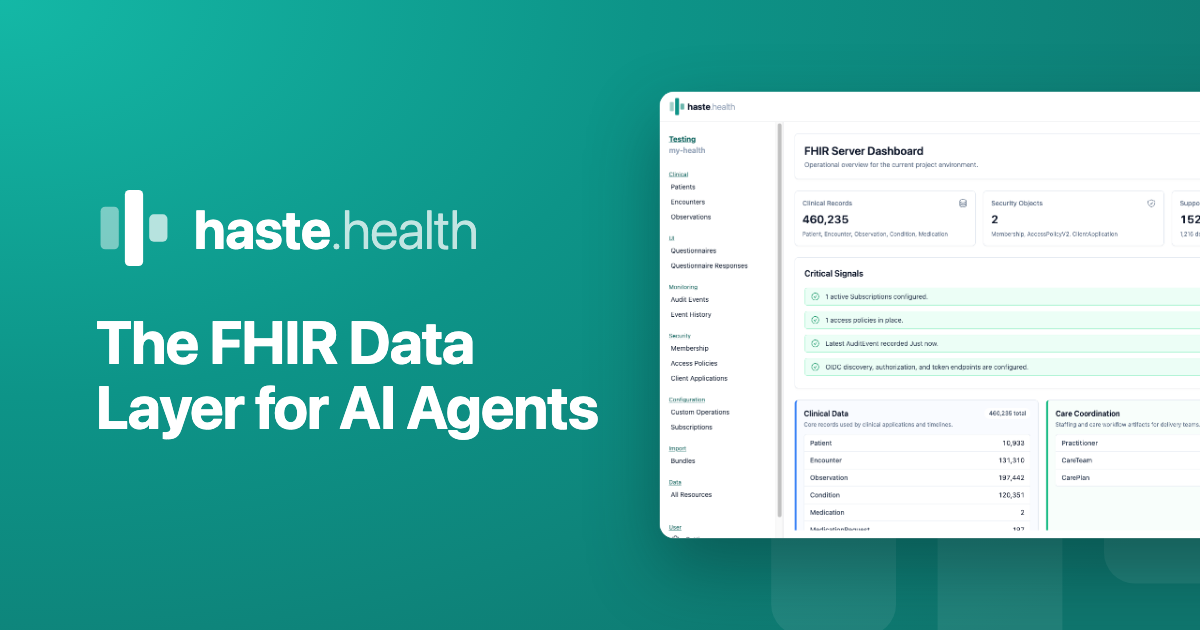
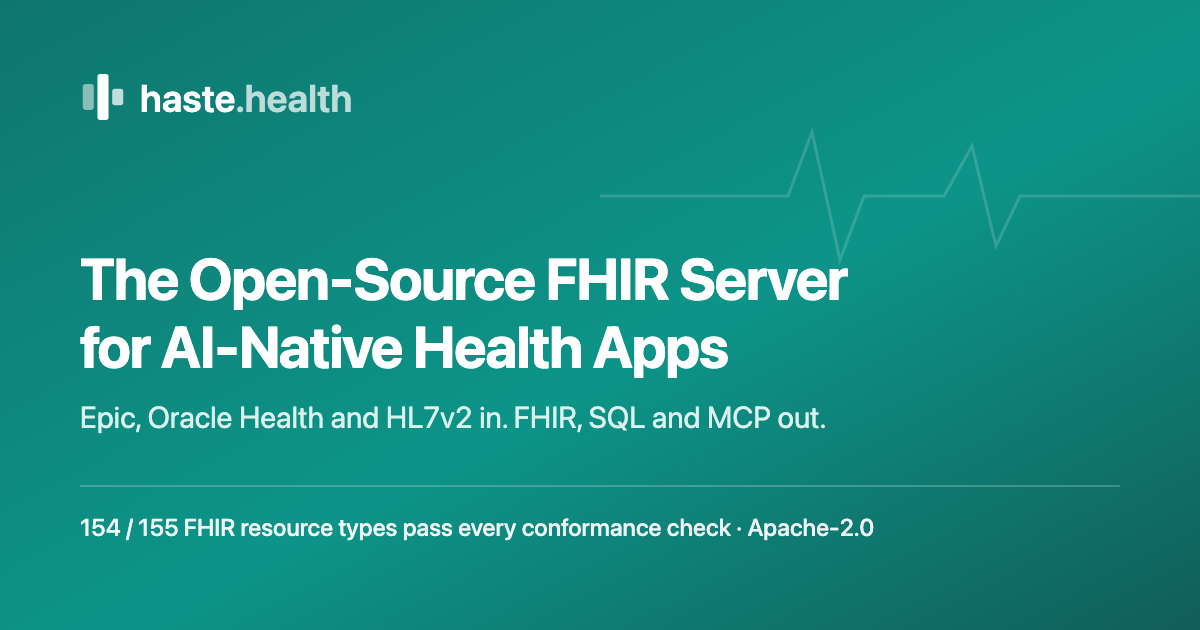
Site alterations (#1019)

diff --git a/frontend/packages/website/src/pages/index.tsx b/frontend/packages/website/src/pages/index.tsx
@@ -4,6 +4,7 @@ import Layout from "@theme/Layout";
 import Heading from "@theme/Heading";
 import DataFlowDiagram from "@site/src/components/DataFlowDiagram";
 import McpPreview from "@site/src/components/McpPreview";
+import { QUICK_START_URL, SIGNUP_URL } from "@site/src/links";
 
 const buildCards = [
   {
@@ -262,8 +263,8 @@ export default function Home(): ReactNode {
   return (
     <Layout
       wrapperClassName="bg-background"
-      title="FHIR Data Layer for AI Agents"
-      description="Haste Health is an open-source, self-hosted FHIR R4 clinical data repository built for AI agents via MCP. It normalizes Epic, Cerner, HL7v2, and other healthcare data sources into one API, with OAuth2/SMART on FHIR built in. Often described as a headless EHR, it runs under Apache-2.0."
+      title="Open-Source FHIR Server for AI-Native Health Apps"
+      description="Haste Health is an open-source, self-hosted FHIR R4 server and clinical data repository for AI-native health apps. It normalizes Epic, Oracle Health, HL7v2 and any FHIR R4 API into one API, with OAuth2, SMART standalone launch and MCP tools built in. Apache-2.0, or hosted from $1,500/month with a BAA."
     >
       <meta name="algolia-site-verification" content="A94F28B6A640A6FE" />
       <script type="application/ld+json">
@@ -274,7 +275,7 @@ export default function Home(): ReactNode {
           applicationCategory: "HealthApplication",
           operatingSystem: "Linux, macOS, Windows (Docker)",
           description:
-            "Open-source, self-hosted FHIR R4 clinical data repository built for AI agents, normalizing Epic, Cerner, HL7v2, and other healthcare data sources into one API. Built-in OAuth2 / SMART on FHIR authorization and MCP tools for AI agent access. Often described as a headless EHR.",
+            "Open-source, self-hosted FHIR R4 server and clinical data repository for AI-native health apps, normalizing Epic, Oracle Health, HL7v2 and any FHIR R4 API into one API. Built-in OAuth2 authorization, SMART on FHIR standalone launch and MCP tools for AI agent access.",
           url: "https://haste.health",
           license: "https://www.apache.org/licenses/LICENSE-2.0",
           offers: {
@@ -307,42 +308,64 @@ export default function Home(): ReactNode {
           <div className="pointer-events-none absolute -left-16 bottom-0 h-64 w-64 rounded-full bg-brand-300/20 blur-3xl hero-blob-slow" />
 
           <div className="relative grid items-center gap-12 lg:grid-cols-12 lg:gap-10">
-            <div className="space-y-7 lg:col-span-6">
+            <div className="space-y-7 lg:col-span-7">
+              {/* The H1 and subhead already say open source; the badge carries
+                  the two things a buyer comparing FHIR servers cannot get from
+                  most rivals without a sales call. */}
               <div className="inline-flex items-center rounded-full border border-brand-400/60 bg-white/10 px-3 py-1 text-xs font-semibold uppercase tracking-[0.08em] text-white backdrop-blur">
-                Open source · Apache-2.0 · Self-hosted
+                Apache-2.0 · Published pricing · BAA available
               </div>
 
+              {/* The category noun a buyer actually shortlists on ("FHIR
+                  server") leads; AI-native is the audience, not the category.
+                  An H1 built on MCP alone competes on a feature every rival
+                  now ships.
+
+                  It breaks into the same two lines as the social card. The
+                  size steps with the viewport so "The Open-Source FHIR Server"
+                  (about 13.7em in a bold system font) fits the text column at
+                  each breakpoint: the full 624px at 768, then a 7-of-12 column
+                  of roughly 497px at 1024, 564px at 1280 and 669px at 1440,
+                  where Infima widens the container. The nowrap spans keep the
+                  compound words whole if it does wrap. */}
               <Heading
                 as="h1"
-                className="text-4xl md:text-6xl font-bold tracking-[-0.025em] leading-[1.05] text-white"
+                className="text-4xl md:text-[2.5rem] lg:text-4xl xl:text-[2.5rem] 2xl:text-5xl font-bold tracking-[-0.025em] leading-[1.05] text-white text-balance"
               >
-                The FHIR Data Layer for AI Agents
+                The <span className="whitespace-nowrap">Open-Source</span>{" "}
+                <span className="whitespace-nowrap">FHIR Server</span>{" "}
+                <span className="lg:block">
+                  for <span className="whitespace-nowrap">AI-Native</span>{" "}
+                  Health Apps
+                </span>
               </Heading>
 
               <p className="max-w-2xl text-lg md:text-2xl text-brand-100 leading-relaxed">
-                Haste Health normalizes Epic, Cerner, HL7v2, and any
-                FHIR-compatible system into one structured API, giving your
-                agents and applications direct, standards-based access to
-                clinical data, not a fragile integration layer.
+                Epic, Oracle Health and HL7v2 in. FHIR, SQL and MCP out.
+                Rust-fast, Apache-2.0, self-host it or run it hosted with a
+                signed BAA.
               </p>
 
+              {/* Same pair as the navbar: the hosted free tenant is the
+                  lowest-friction start and the path to a paid tier; the quick
+                  start keeps self-hosting one click away. */}
               <div className="flex flex-col gap-3 pt-1 sm:flex-row sm:items-center">
                 <Link
                   className="inline-flex items-center justify-center rounded-lg bg-white px-7 py-3 text-lg font-semibold text-brand-900 transition-colors hover:bg-brand-50"
-                  to="/docs/getting_started/quick_start"
+                  to={SIGNUP_URL}
                 >
-                  Start in 5 Minutes
+                  Start for free
                 </Link>
                 <Link
                   className="inline-flex items-center justify-center rounded-lg border border-brand-300/60 bg-white/5 px-7 py-3 text-lg font-semibold text-white transition-colors hover:bg-white/15"
-                  to="/docs/integration/ai/claude"
+                  to={QUICK_START_URL}
                 >
-                  Connect Claude
+                  Self-host in 5 minutes
                 </Link>
               </div>
             </div>
 
-            <div className="lg:col-span-6">
+            <div className="lg:col-span-5">
               <HeroSnippet />
             </div>
           </div>
@@ -428,6 +451,20 @@ export default function Home(): ReactNode {
           />
           <div className="mt-8">
             <McpPreview />
+          </div>
+          <div className="mt-8 flex flex-col gap-3 sm:flex-row sm:items-center">
+            <Link
+              className="inline-flex items-center justify-center rounded-lg bg-brand-700 px-6 py-3 text-base font-semibold text-white transition-colors hover:bg-brand-800"
+              to="/docs/category/ai"
+            >
+              Connect Claude, Gemini or OpenAI
+            </Link>
+            <Link
+              className="inline-flex items-center justify-center rounded-lg border border-brand-300 px-6 py-3 text-base font-semibold text-brand-900 transition-colors hover:bg-brand-100"
+              to="/docs/api/rest_api/model_context_protocol/tools"
+            >
+              Browse the MCP tools
+            </Link>
           </div>
         </section>
 

diff --git a/frontend/packages/website/docusaurus.config.ts b/frontend/packages/website/docusaurus.config.ts
@@ -8,7 +8,7 @@ import autoprefixer from "autoprefixer";
 
 const config: Config = {
   title: "Haste Health",
-  tagline: "The FHIR Data Layer for AI Agents",
+  tagline: "The open-source FHIR server for AI-native health apps",
   favicon: "/img/favicon.ico",
   trailingSlash: false,
 
@@ -33,7 +33,7 @@ const config: Config = {
         url: "https://haste.health",
         logo: "https://haste.health/img/logo.svg",
         description:
-          "Haste Health is an open-source, self-hosted headless EHR and FHIR R4 clinical data repository that normalizes Epic, Cerner, HL7v2, and other healthcare data sources into one API for apps and AI agents.",
+          "Haste Health is an open-source, self-hosted FHIR R4 server and clinical data repository that normalizes Epic, Oracle Health, HL7v2, and any FHIR R4 API into one API for apps and AI agents.",
         sameAs: ["https://github.com/hastehealth/hastehealth"],
       }),
     },
@@ -133,6 +133,13 @@ const config: Config = {
   themeConfig: {
     // Default social card (og:image / twitter:image), 1200x630, for any page
     // that doesn't set its own `image` in Layout/frontmatter.
+    //
+    // Generated, not hand-made: `pnpm generate-social-card` builds
+    // static/img/social-card.svg and rasterizes it. Its headline has to match
+    // the homepage H1 in src/pages/index.tsx, and its proof figures come from
+    // the same conformance report the site renders. Edit
+    // scripts/social-card.mjs and regenerate; a PNG edited by hand is
+    // overwritten and will drift from the site's copy again.
     image: "img/social-card.png",
     // Global <meta> tags injected on every page. Per-page title/description
     // (set via Layout props or frontmatter) always take precedence over
@@ -142,7 +149,7 @@ const config: Config = {
       {
         name: "keywords",
         content:
-          "headless EHR, FHIR server, FHIR clinical data repository, FHIR CDR, HL7 FHIR R4 API, SMART on FHIR, OAuth2 provider, healthcare interoperability, MCP AI agents, self-hosted EHR, open source FHIR server",
+          "FHIR server, open source FHIR server, FHIR clinical data repository, FHIR CDR, HL7 FHIR R4 API, HL7v2 to FHIR, SMART on FHIR, OAuth2 provider, healthcare interoperability, MCP AI agents, self-hosted FHIR server, Medplum alternative, Aidbox alternative, headless EHR",
       },
       { name: "robots", content: "index, follow" },
       { name: "twitter:card", content: "summary_large_image" },

diff --git a/frontend/packages/website/src/links.ts b/frontend/packages/website/src/links.ts
@@ -1,0 +1,15 @@
+/**
+ * The off-site and entry-point URLs the marketing pages share, so the homepage
+ * hero, the pricing cards and any future page send a buyer down the same
+ * funnel. The navbar buttons in docusaurus.config.ts point at the same
+ * addresses; keep them in step when one changes.
+ */
+
+/** Hosted signup: a free Developer tenant, live in under a minute. */
+export const SIGNUP_URL = "https://api.haste.health/auth/signup";
+
+/** Sales call for the Scale tier and compliance conversations. */
+export const DEMO_URL = "https://calendly.com/rp-haste/book-a-demo";
+
+/** Self-hosting with docker compose. */
+export const QUICK_START_URL = "/docs/getting_started/quick_start";

diff --git a/frontend/packages/website/src/pages/pricing.tsx b/frontend/packages/website/src/pages/pricing.tsx
@@ -12,10 +12,7 @@ import {
   isUnlimited,
   limitCount,
 } from "@site/src/pricing/tiers";
-
-const SIGNUP_URL = "https://api.haste.health/auth/signup";
-const DEMO_URL = "https://calendly.com/rp-haste/book-a-demo";
-const QUICK_START_URL = "/docs/getting_started/quick_start";
+import { DEMO_URL, QUICK_START_URL, SIGNUP_URL } from "@site/src/links";
 
 /**
  * The editorial part of a tier: what we say about it, as opposed to what the

diff --git a/README.md b/README.md
@@ -4,7 +4,9 @@
 
 ## Overview
 
-Haste Health is a headless EHR. Store clinical data as FHIR R4 and serve it to your applications, analytics, and AI agents.
+Haste Health is the open-source FHIR server for AI-native health apps. It stores clinical data as FHIR R4 and serves it to your applications, analytics and AI agents through one API, with OAuth2, SMART on FHIR and MCP built in.
+
+Epic, Oracle Health and HL7v2 in. FHIR, SQL-on-FHIR and MCP out. Written in Rust, licensed Apache-2.0, and yours to self-host, or [hosted with a signed BAA](https://haste.health/pricing).
 
 ## Running Locally
 
